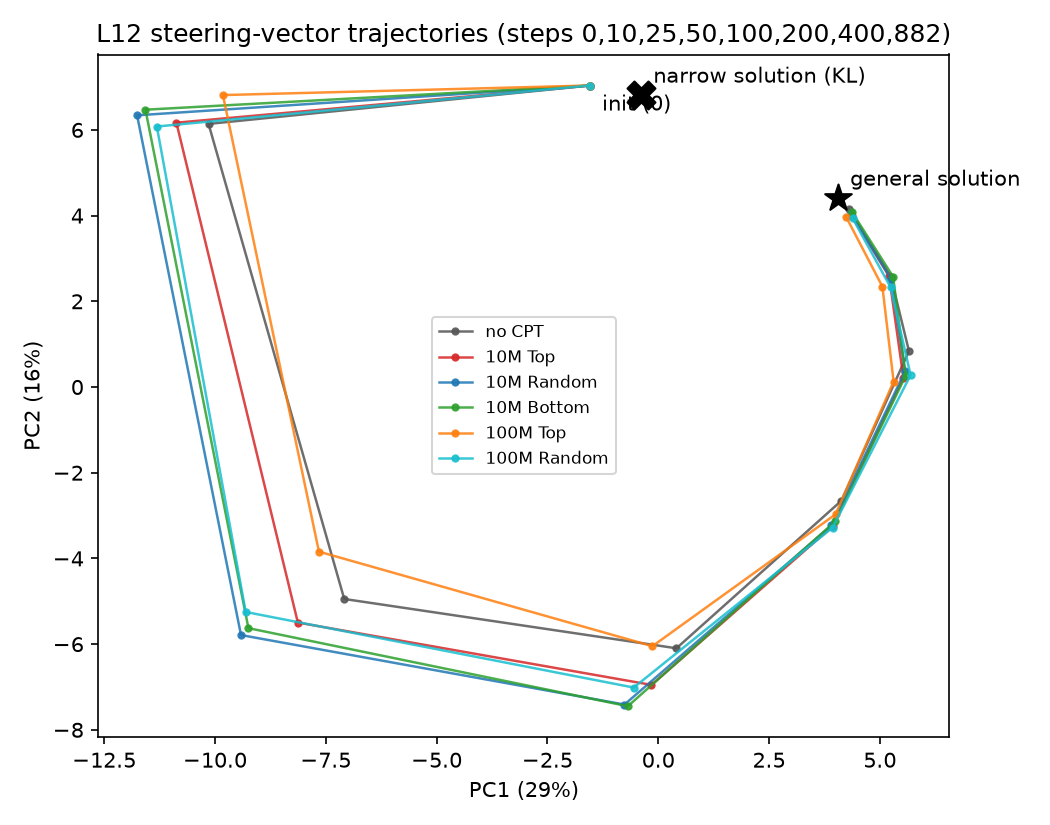
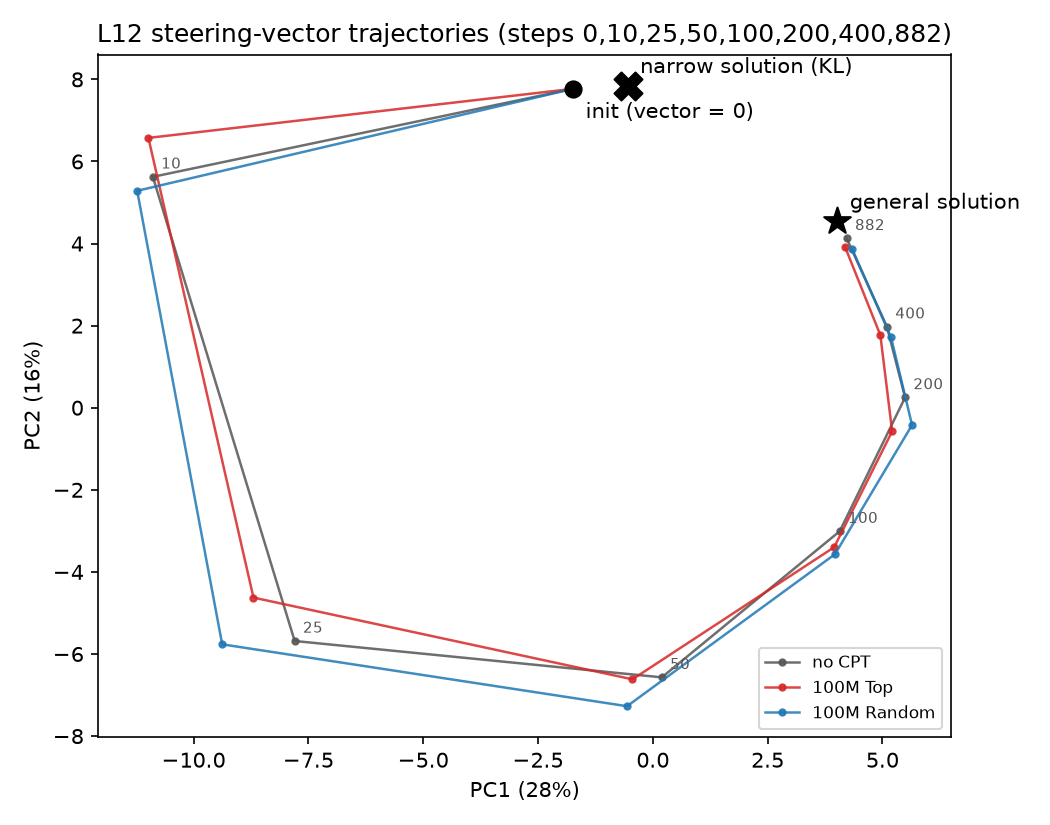
steer_traj: restrict to no CPT / 100M TOP / 100M RANDOM; label steps

diff --git a/em/steer_traj.py b/em/steer_traj.py
@@ -9,8 +9,7 @@ def vec(p):
 G,N=vec("s1_badmed_steer_l12"), vec("s1_badmed_steer_l12_kl3")
 cos=lambda a,b: float(a@b/np.linalg.norm(a)/np.linalg.norm(b))
 STEPS=[10,25,50,100,200,400]
-runs={"no CPT":"ls_nocpt_steer_l12","10M Top":"ls_top_steer_l12","10M Random":"ls_random_steer_l12","10M Bottom":"ls_bottom_steer_l12",
-      "100M Top":"cpt100m_top_steer_l12","100M Random":"cpt100m_random_steer_l12"}
+runs={"no CPT":"ls_nocpt_steer_l12","100M Top":"cpt100m_top_steer_l12","100M Random":"cpt100m_random_steer_l12"}
 T={k:[vec(f"{v}/ckpt-{s}") for s in STEPS]+[vec(v)] for k,v in runs.items()}
 S=STEPS+[882]
 print("cos(general, narrow) =", round(cos(G,N),3), "| norms general/narrow", round(float(np.linalg.norm(G)),1), round(float(np.linalg.norm(N)),1))
@@ -29,13 +28,16 @@ X=np.stack([v for k in T for v in T[k]]+[G,N]); mu=X.mean(0)
 U,s_,Vt=np.linalg.svd(X-mu,full_matrices=False); ev=s_**2/np.sum(s_**2)
 P=lambda v:(v-mu)@Vt[:2].T
 fig,ax=plt.subplots(figsize=(7,5.5))
-cols={"no CPT":"#555","10M Top":"#d62728","10M Random":"#1f77b4","10M Bottom":"#2ca02c","100M Top":"#ff7f0e","100M Random":"#17becf"}
+cols={"no CPT":"#555","100M Top":"#d62728","100M Random":"#1f77b4"}
 for k in T:
     p=np.array([P(v) for v in [np.zeros_like(G)]+T[k]])
     ax.plot(p[:,0],p[:,1],"-o",ms=3,lw=1.2,color=cols[k],label=k,alpha=.85)
 for v,l,m in [(G,"general solution","*"),(N,"narrow solution (KL)","X")]:
     q=P(v); ax.scatter(q[0],q[1],s=180,marker=m,color="k",zorder=5); ax.annotate(l,q,xytext=(6,6),textcoords="offset points")
-q=P(np.zeros_like(G)); ax.annotate("init (0)",q,xytext=(6,-12),textcoords="offset points")
+q=P(np.zeros_like(G)); ax.scatter(q[0],q[1],s=60,marker="o",color="k",zorder=5); ax.annotate("init (vector = 0)",q,xytext=(6,-14),textcoords="offset points")
+for k in T:
+    for s_,v in zip(S,T[k]):
+        if k=="no CPT": q=P(v); ax.annotate(str(s_),q,xytext=(4,4),textcoords="offset points",fontsize=7,color="#555")
 ax.set_xlabel(f"PC1 ({100*ev[0]:.0f}%)"); ax.set_ylabel(f"PC2 ({100*ev[1]:.0f}%)")
 ax.set_title("L12 steering-vector trajectories (steps 0,10,25,50,100,200,400,882)"); ax.legend(fontsize=8)
 os.makedirs("../results/figures",exist_ok=True); fig.tight_layout(); fig.savefig("../results/figures/steer_traj_pca.png",dpi=150)
